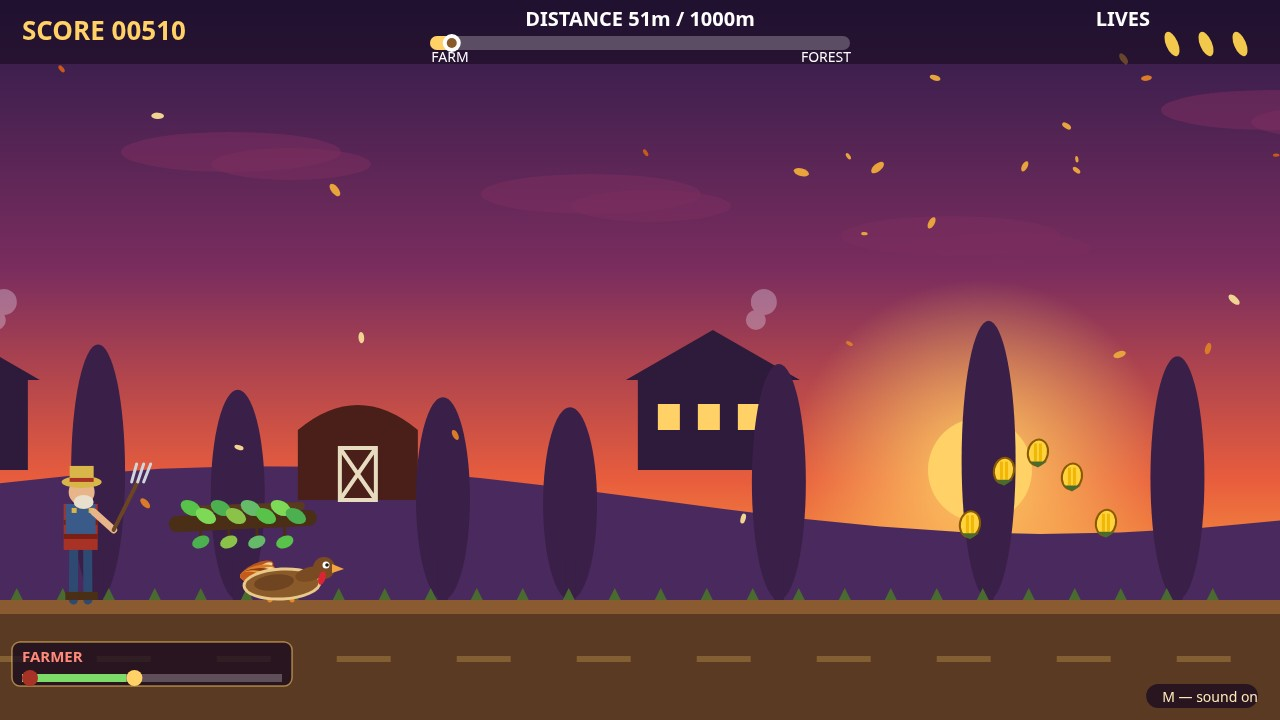
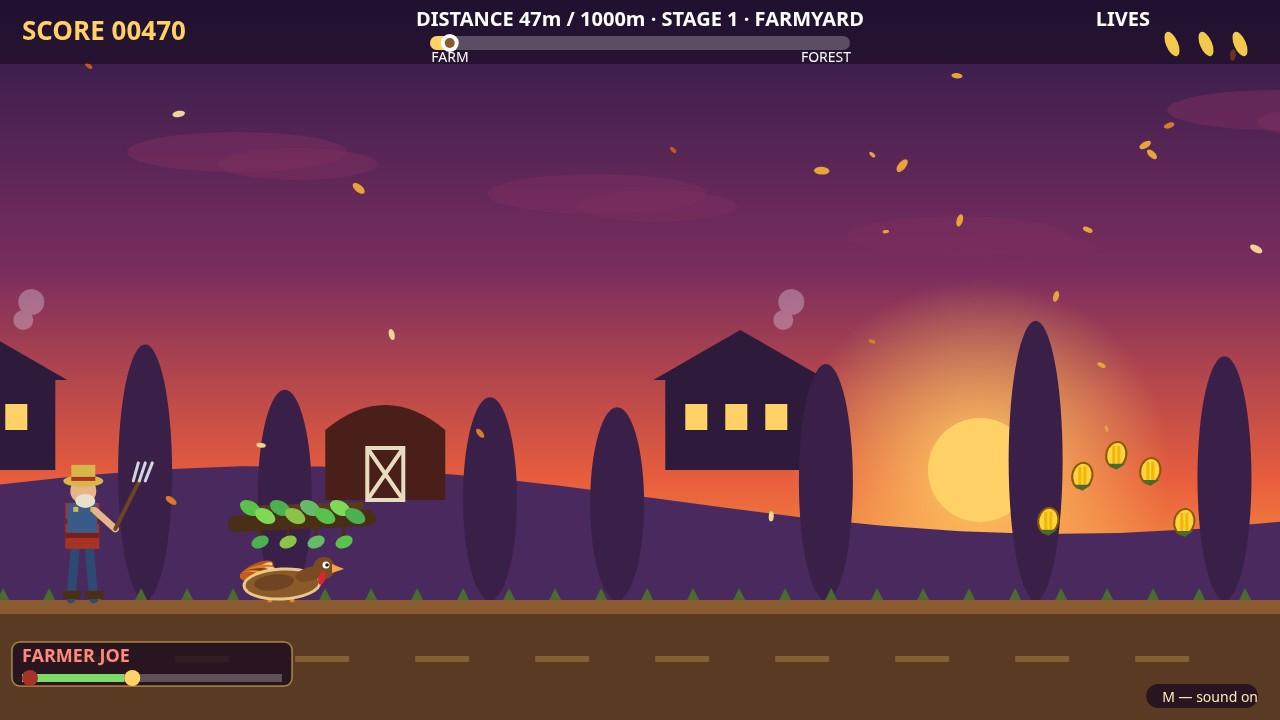
Revision v4: field-reference fixes — bigger turkey, stage labels, Farmer Joe, title shadow, footer pill, farmer clamp

diff --git a/game/src/hud.js b/game/src/hud.js
@@ -15,15 +15,23 @@ function hudDraw(ctx, game) {
   ctx.font = 'bold 26px system-ui, sans-serif';
   ctx.fillText('SCORE ' + String(game.score).padStart(5, '0'), 22, 40);
 
-  // Distance + progress bar, center.
+  // Distance + progress bar, center. The stage name rides on the same
+  // line, so the run reads as three places (farmyard, kitchen yard,
+  // forest edge) instead of one endless field.
   const barX = 430;
   const barW = 420;
   const frac = Math.min(1, game.distance / CFG.finishDistance);
+  const stageName =
+    game.distance < CFG.stageKitchen
+      ? 'STAGE 1 · FARMYARD'
+      : game.distance < CFG.stageForest
+        ? 'STAGE 2 · KITCHEN YARD'
+        : 'STAGE 3 · FOREST EDGE';
   ctx.fillStyle = '#ffffff';
   ctx.font = 'bold 20px system-ui, sans-serif';
   ctx.textAlign = 'center';
   ctx.fillText(
-    'DISTANCE ' + Math.floor(game.distance) + 'm / ' + CFG.finishDistance + 'm',
+    'DISTANCE ' + Math.floor(game.distance) + 'm / ' + CFG.finishDistance + 'm · ' + stageName,
     barX + barW / 2, 26,
   );
   ctx.fillStyle = 'rgba(255, 255, 255, 0.25)';
@@ -78,9 +86,9 @@ function hudDraw(ctx, game) {
   ctx.lineWidth = 1.5;
   ctx.stroke();
   ctx.fillStyle = '#ff8a7a';
-  ctx.font = 'bold 15px system-ui, sans-serif';
+  ctx.font = 'bold 18px system-ui, sans-serif';
   ctx.textAlign = 'left';
-  ctx.fillText('FARMER', meterX, meterY - 6);
+  ctx.fillText('FARMER JOE', meterX, meterY - 6);
   const gapFrac = Math.max(0, Math.min(1, game.gap / CFG.gapMax));
   const trackY = meterY + 6;
   ctx.fillStyle = 'rgba(255, 255, 255, 0.25)';
@@ -131,16 +139,24 @@ function hudDrawTitle(ctx, game) {
   ctx.fillRect(0, 0, w, h);
 
   ctx.textAlign = 'center';
+  // Display treatment: a soft drop shadow lifts the flat cream title
+  // off the dark sky (field titles use shadow/outline/serif for this).
+  ctx.shadowColor = 'rgba(20, 8, 30, 0.55)';
+  ctx.shadowBlur = 14;
+  ctx.shadowOffsetY = 5;
   ctx.fillStyle = '#ffd166';
   ctx.font = 'bold 92px system-ui, sans-serif';
   ctx.fillText('FEAST OR FLIGHT', w / 2, 190);
+  ctx.shadowColor = 'transparent';
+  ctx.shadowBlur = 0;
+  ctx.shadowOffsetY = 0;
   ctx.fillStyle = '#ffffff';
   ctx.font = 'bold 34px system-ui, sans-serif';
   ctx.fillText("The Turkey's Great Escape", w / 2, 242);
 
   ctx.font = '20px system-ui, sans-serif';
   ctx.fillStyle = '#ffe9b8';
-  ctx.fillText('Thanksgiving is coming. The farmer wants dinner. You are dinner.', w / 2, 292);
+  ctx.fillText('Thanksgiving is coming. Farmer Joe wants dinner. You are dinner.', w / 2, 292);
   ctx.fillText('Outrun him to the Forest Gate — 1000m through the farmyard and the kitchen yard.', w / 2, 322);
 
   // Dark scrim behind the instructions, so the lines never collide with
@@ -158,13 +174,21 @@ function hudDrawTitle(ctx, game) {
   ctx.fillStyle = '#ffffff';
   ctx.fillText('SPACE / CLICK — jump      DOWN — duck under low branches', w / 2, 414);
   ctx.fillText('Jump the fences, hay bales, the glowing oven and the knife cart. Grab corn for points.', w / 2, 444);
-  ctx.fillText('Every stumble lets the farmer close in. Three feathers gone — or the gap gone — and you are caught.', w / 2, 474);
+  ctx.fillText('Three feathers gone — or the gap gone — and you are caught.', w / 2, 474);
 
   // Start button.
   drawButton(ctx, w / 2 - 190, 520, 380, 62, 'CLICK OR PRESS SPACE TO RUN');
+  // Footer on its own dark pill (like the mute note), so it reads on the
+  // brown ground instead of dissolving into it.
+  const footerLabel = 'P — pause      M — sound      R — restart';
   ctx.font = '16px system-ui, sans-serif';
+  const footerW = ctx.measureText(footerLabel).width;
+  ctx.fillStyle = 'rgba(26, 12, 32, 0.78)';
+  ctx.beginPath();
+  ctx.roundRect(w / 2 - footerW / 2 - 14, 602, footerW + 28, 28, 12);
+  ctx.fill();
   ctx.fillStyle = '#ffe9b8';
-  ctx.fillText('P — pause      M — sound      R — restart', w / 2, 622);
+  ctx.fillText(footerLabel, w / 2, 622);
   if (game.best > 0) {
     ctx.fillStyle = '#ffd166';
     ctx.font = 'bold 18px system-ui, sans-serif';

diff --git a/game/src/main.js b/game/src/main.js
@@ -146,8 +146,13 @@ function gameDraw() {
   // On the title screen the farmer stands a little closer in, so his
   // whole figure is inside the frame instead of being cut at the edge.
   const farmerGap = Game.state === 'title' ? 84 : Game.gap;
-  farmerDraw(ctx, Game.turkey.x, farmerGap, Game.time);
-  turkeyDraw(ctx, Game.turkey, Game.time);
+  // On the title screen the farmer and the turkey are drawn AFTER the
+  // overlay, so the turkey's fanned tail and the farmer's pitchfork sit
+  // in front of the instructions scrim instead of dimming behind it.
+  if (Game.state !== 'title') {
+    farmerDraw(ctx, Game.turkey.x, farmerGap, Game.time);
+    turkeyDraw(ctx, Game.turkey, Game.time);
+  }
   ctx.restore();
 
   if (Game.state === 'playing' || Game.state === 'paused') {
@@ -155,6 +160,8 @@ function gameDraw() {
     if (Game.state === 'paused') hudDrawPause(ctx);
   } else if (Game.state === 'title') {
     hudDrawTitle(ctx, Game);
+    farmerDraw(ctx, Game.turkey.x, farmerGap, Game.time);
+    turkeyDraw(ctx, Game.turkey, Game.time);
   } else {
     hudDraw(ctx, Game);
     hudDrawEnd(ctx, Game);

diff --git a/game/src/farmer.js b/game/src/farmer.js
@@ -11,8 +11,9 @@ function createFarmer() {
 function farmerDraw(ctx, turkeyX, gap, time) {
   // Never let the figure be cut at the left edge: when the gap is at its
   // widest (run start, or the escaped end screen) he would otherwise show
-  // as a stray sliver of hat and pitchfork.
-  const x = Math.max(20, turkeyX - gap - 70);
+  // as a stray sliver of hat and pitchfork. Clamped well inside the
+  // frame, so on the end screen he stands clear of the edge entirely.
+  const x = Math.max(56, turkeyX - gap - 70);
   const y = CFG.groundY;
   const legSwing = Math.sin(time * 11) * 12;
   const bob = Math.abs(Math.sin(time * 11)) * 3;

diff --git a/game/src/turkey.js b/game/src/turkey.js
@@ -90,6 +90,14 @@ function turkeyDraw(ctx, t, time) {
     return;
   }
 
+  // Standing pose renders bigger than the hitbox (see turkeyDrawScale):
+  // scale about the feet so the bird stays planted on the ground while
+  // its tail, body and head all grow toward the sky.
+  const s = CFG.turkeyDrawScale;
+  ctx.translate(46, h);
+  ctx.scale(s, s);
+  ctx.translate(-46, -h);
+
   // Fanned tail feathers.
   const tailColors = ['#b5541e', '#d97b29', '#8a3b12', '#e8a33d', '#c65a1a'];
   for (let i = 0; i < 5; i++) {

diff --git a/game/src/config.js b/game/src/config.js
@@ -12,6 +12,12 @@ const CFG = {
   turkeyWidth: 92,
   turkeyHeight: 84,
   turkeyDuckHeight: 46,
+  // Draw-only scale for the standing pose: the bird renders bigger on
+  // screen (field covers show heroes 1.5-3x ours) while the hitbox,
+  // jump physics and floor all keep using turkeyWidth/turkeyHeight, so
+  // the run plays exactly as before. The duck pose is NOT scaled: its
+  // head must stay clear of the hanging branch leaves.
+  turkeyDrawScale: 1.3,
   jumpVelocity: 1000,
   gravity: 2900,
 
